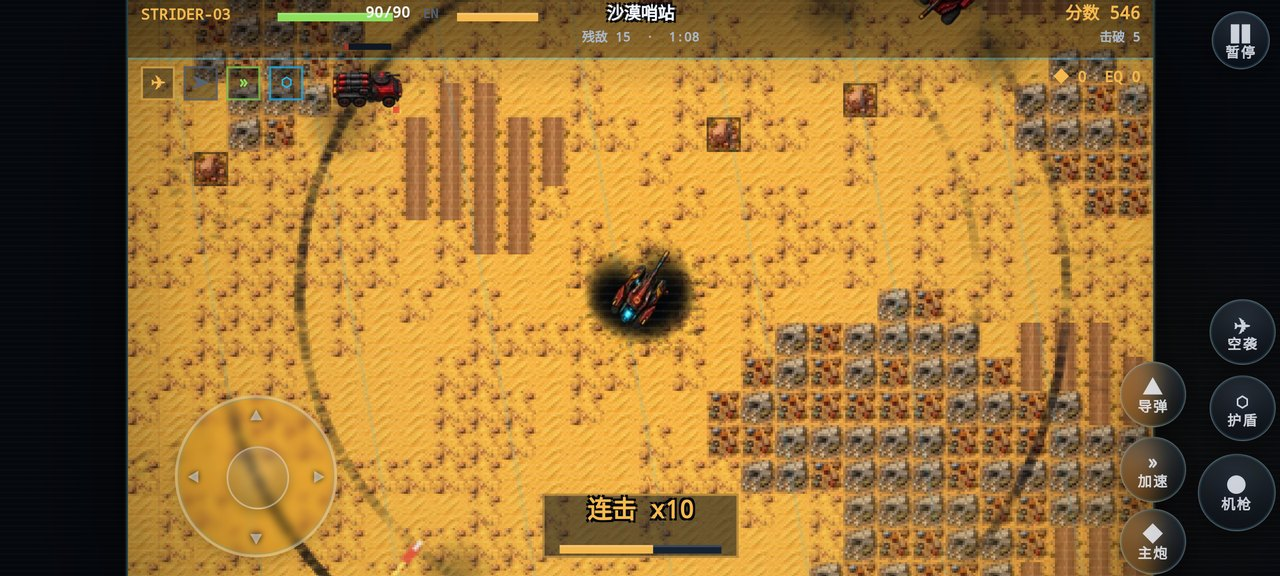
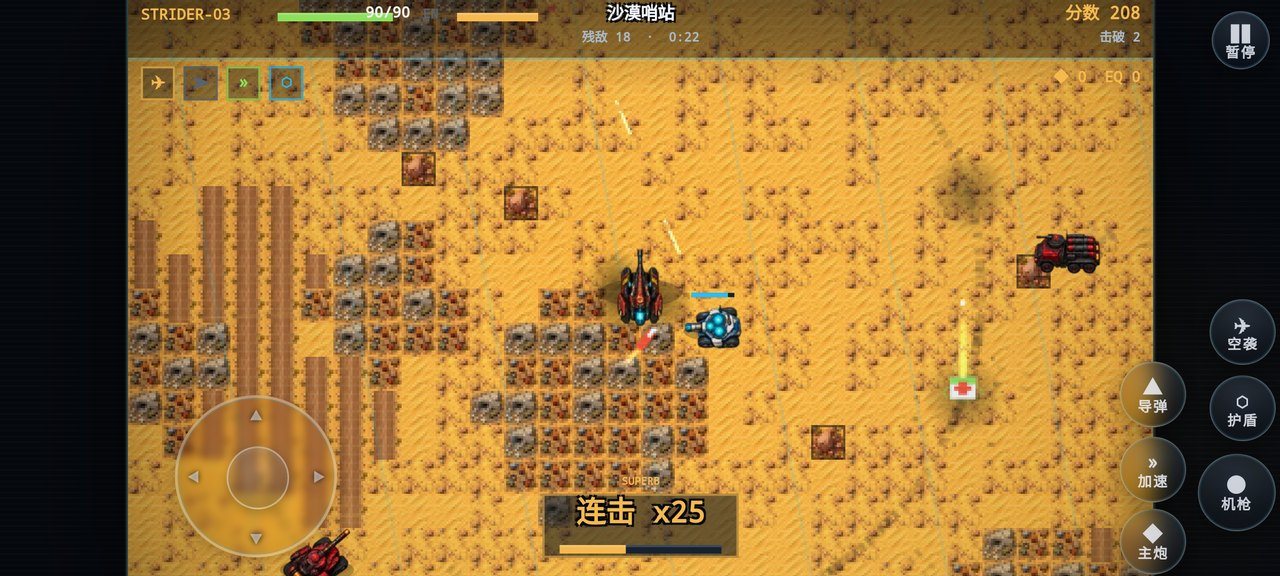
docs+release: v1.7.0 — plasma shield orb shots, version bump
- retake battle-desert/battle-snow, add shield-orb hero shot (v1.7
  3D plasma shield, solid dash ghosts, boosted terrain FX)
- bump versionName 1.7.0 (versionCode 10) to match changelog v1.7

diff --git a/README.md b/README.md
@@ -2,7 +2,7 @@
 
 横版坦克突击动作游戏：驾驶孤军坦克穿越**七大主题战场**，击破敌军、捡强化部件、弹反敌弹、轰穿 BOSS 与它的精英护卫队——通关后进入更高强度的下一周目，无限循环。
 
-**当前版本 v1.4.0**（内容里程碑：v14 高清 AI 立绘 → v15 俯视 16 向单位 + 地形图集 → v1.5 七主题关卡与玻璃 UI → v1.6 机动特效与 BOSS 护卫队）
+**当前版本 v1.7.0**（内容里程碑：v14 高清 AI 立绘 → v15 俯视 16 向单位 + 地形图集 → v1.5 七主题关卡与玻璃 UI → v1.6 机动特效与 BOSS 护卫队 → v1.7 手感三改：震动分级 · 实心冲刺残影 · 3D 等离子护罩 · 地形特效增强）
 
 - ▶ 在线游玩（GitHub Pages）：https://rance1230.github.io/steel-roar-tank-battle/
 - 📦 Android APK / 单文件 `index.html`：[GitHub Releases](https://github.com/rance1230/steel-roar-tank-battle/releases)
@@ -12,21 +12,17 @@
 
 ## 游戏截图
 
-| 标题画面 | 选择机体（实车预览） |
-|---|---|
-| ![标题画面](docs/img/title.jpg) | ![选择机体](docs/img/hull-select.jpg) |
+| 标题画面 | 选择机体（实车预览） | 选择僚机 |
+|---|---|---|
+| ![标题画面](docs/img/title.jpg) | ![选择机体](docs/img/hull-select.jpg) | ![选择僚机](docs/img/wingman-select.jpg) |
 
-| 沙漠哨站·战斗（模拟摇杆+玻璃按键） | 雪原突围·主题战场 |
-|---|---|
-| ![沙漠战斗](docs/img/battle-desert.jpg) | ![雪原战斗](docs/img/battle-snow.jpg) |
+| 沙漠哨站·战斗（模拟摇杆+玻璃按键） | 雪原突围·主题战场 | 3D 等离子护罩 |
+|---|---|---|
+| ![沙漠战斗](docs/img/battle-desert.jpg) | ![雪原战斗](docs/img/battle-snow.jpg) | ![能量护盾](docs/img/shield-orb.jpg) |
 
-| BOSS 与精英护卫队 | 战地整备（局内成长） |
-|---|---|
-| ![BOSS战](docs/img/boss-escort.jpg) | ![战地整备](docs/img/upgrade.jpg) |
-
-| 僚机选择 | 内置操作说明（13 页） |
-|---|---|
-| ![选择僚机](docs/img/wingman-select.jpg) | ![操作说明](docs/img/help.jpg) |
+| BOSS 与精英护卫队 | 战地整备（局内成长） | 内置操作说明（13 页） |
+|---|---|---|
+| ![BOSS战](docs/img/boss-escort.jpg) | ![战地整备](docs/img/upgrade.jpg) | ![操作说明](docs/img/help.jpg) |
 
 ---
 
@@ -39,6 +35,7 @@
 - **冲撞破门**：高速冲撞触发零距离炮击 ×1.35，按敌质量击飞、撞飞连锁（深度≤3）。
 - **连击与 Overdrive**：5 秒连击链，连击越高掉落越好，60+ 进入 Overdrive（射速/移速提升+金色尾焰）。
 - **BOSS 精英护卫队**：BOSS 不再单挑——4+ 精英随行环布合围，BOSS 冲锋前有「!!」预警，击破 BOSS 护卫溃散。
+- **v1.7 手感三改**：3D 等离子护罩（球面明暗+经纬弧线+环绕能量点，三机体尺寸各异）；震动分级（命中轻震、击破重震、BOSS 击破延长）；冲刺拖出 3 条按车身距回溯的实心剪影；水面涟漪/冰面碎晶/熔岩余烬等地形特效全面增强。
 - **机动表现**：触屏模拟摇杆 360° 变速、冲刺残影、按地形出扬尘/水花/减速粒子。
 - **Roguelite 成长**：每关后「战地整备」用部件升级装甲/速度/攻击/防御（可全额退回重分），通关进入下一周目，强化全部继承。
 - **玻璃拟态 UI**：标题/菜单/整备/结算全套玻璃面板，虚拟按键为圆形玻璃按钮 + 摇杆圆环。
